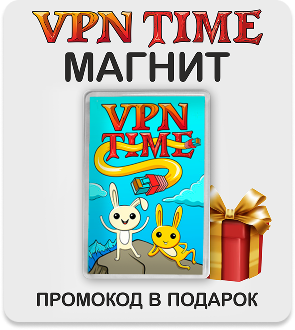
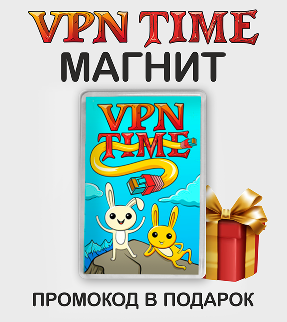
feat: add shadow img

Changed region(s): [[0.0279, 0.0, 0.9756, 0.9938]]

diff --git a/src/sass/page/merch.scss b/src/sass/page/merch.scss
@@ -13,6 +13,9 @@
         }
 
         .home__info-content{
+            .cards{
+                padding-bottom: 2rem;
+            }
             p{
                 text-align: left;
             }
@@ -25,10 +28,14 @@
         &__img{
             &-1,
             &-2{
+
+                box-shadow: 0 .4rem .4rem 0 rgba(0, 0, 0, 0.25);
+                border-radius: 1.5rem;
+                overflow: hidden;
                 img{
                     width: 100%;
                     height: 100%;
-                    object-fit: contain;
+                    object-fit: cover;
                 }
             }
         }
